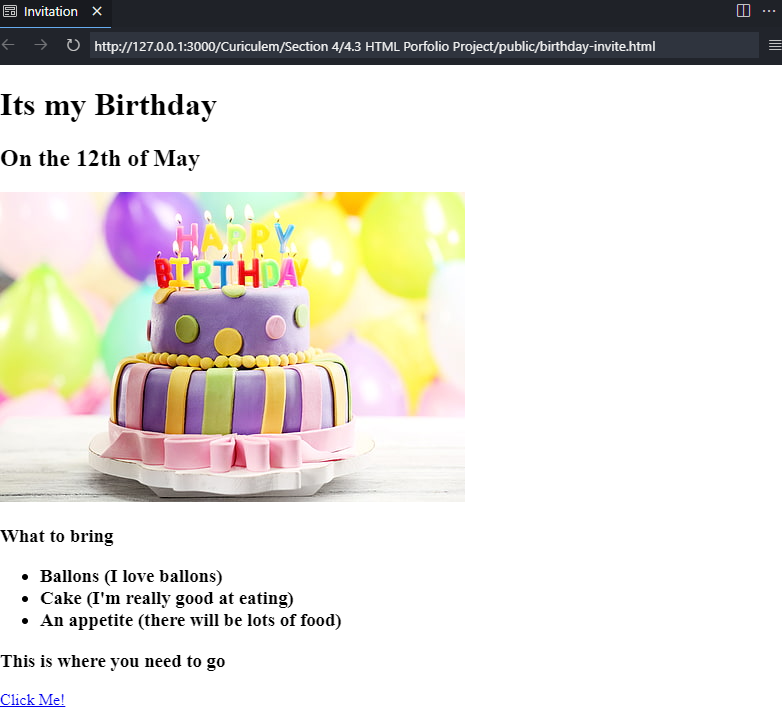
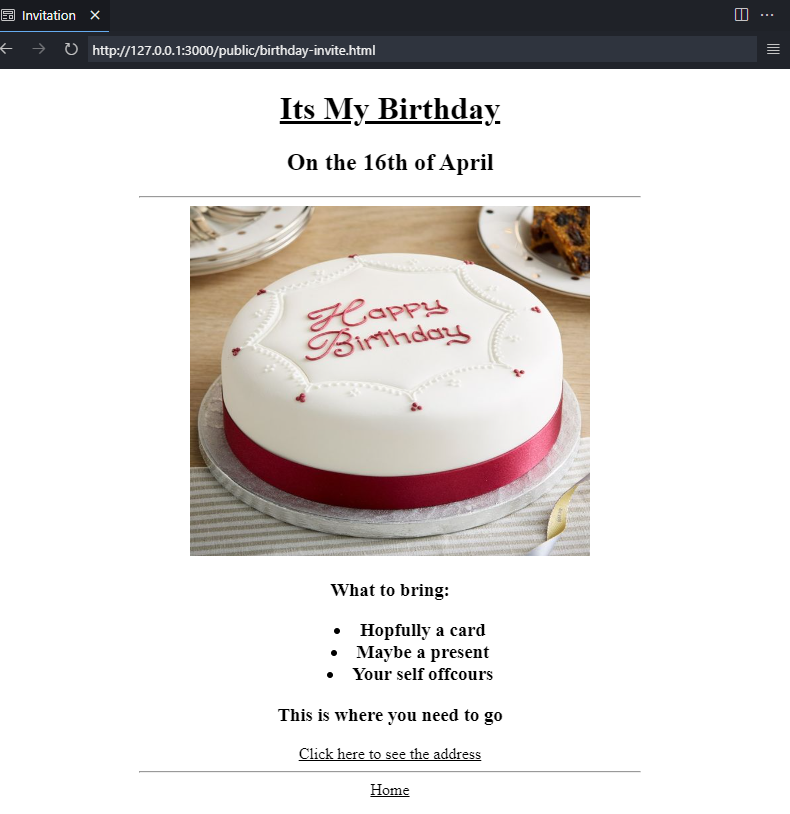
updated some content

diff --git a/public/about.html b/public/about.html
@@ -6,33 +6,141 @@
   <title>About Me</title>
 </head>
 <body>
-    <h1 id="title-line">About Me</h1>
-    <p>Lorem ipsum dolor sit amet, consectetur adipiscing elit. Pellentesque sem tellus, sagittis non odio nec, interdum
-      elementum lacus. Ut ac justo eget risus sollicitudin fringilla sed ut leo. Ut condimentum elit nec fermentum lobortis.
-      Quisque tincidunt quam nec tincidunt ullamcorper. Integer vitae pretium justo. In placerat volutpat pellentesque.
-      Etiam
-      gravida quam vitae odio pulvinar imperdiet. Vivamus venenatis gravida purus sit amet aliquet. Ut in nibh sed quam
-      laoreet lacinia. Cras cursus ut dui vitae posuere. Vivamus volutpat urna vitae odio fringilla placerat. Nulla vel
-      rhoncus sapien. Phasellus at interdum enim.</p>
+  <div class="content-super-wraper">
+    <h1>About Me</h1>
+    <h2>Education:</h2>
+    <p class="content-detail-text">
+      I attended Charles Dickens Secondary school where 
+      I studied at GCSE Level in the subjects bellow.
+    </p>
+  
+    <table class="content-education-table">
+      <tr id="content-education-table-row-one">
+        <td class="content-education-table-cell">
+          Subject:
+        </td>
+        <td class="content-education-table-cell">
+          English Lit
+        </td>
+        <td class="content-education-table-cell">
+          English Lang
+        </td>
+        <td class="content-education-table-cell">
+          Maths
+        </td>
+        <td class="content-education-table-cell">
+          Computer science
+        </td>
+        <td class="content-education-table-cell">
+          Sociology
+        </td>
+        <td class="content-education-table-cell">
+          Geography
+        </td>
+        <td class="content-education-table-cell">
+          Physics
+        </td>
+        <td class="content-education-table-cell">
+          Biology
+        </td>
+        <td class="content-education-table-cell">
+          Chemistry
+        </td>
+      </tr>
+      <tr>
+        <td class="content-education-table-cell">Grade's:</td>
+        <td class="content-education-table-cell">Grade 4</td>
+        <td class="content-education-table-cell">Grade 5</td>
+        <td class="content-education-table-cell">Grade 4</td>
+        <td class="content-education-table-cell">Grade 5</td>
+        <td class="content-education-table-cell">Grade 5</td>
+        <td class="content-education-table-cell">Grade 4</td>
+        <td class="content-education-table-cell">Grade 5</td>
+        <td class="content-education-table-cell">Grade 5</td>
+        <td class="content-education-table-cell">Grade 5</td>
+      </tr>
+    </table>
+    <p class="content-detail-text">
+      After completing my secondary school education I enrold at Broadstairs College
+      where I studied computing at Level 3 BTEC level. This is where i trully found
+      my passion for programming and computers in general.
+    </p>
+    <table class="content-education-table">
+      <tr>
+        <td class="content-education-table-cell">
+          Subject:
+        </td>
+        <td class="content-education-table-cell">
+          Computing (Level 3 BTEC)
+        </td>
+      </tr>
+      <tr>
+        <td class="content-education-table-cell">
+          Grade:
+        </td>
+        <td class="content-education-table-cell">
+          Triple Grade DDM
+        </td>
+      </tr>
+    </table>
 
-    <p>Curabitur elementum sagittis mollis. In porta nec quam ut semper. Nulla volutpat neque quis lacus mattis eleifend.
-      Phasellus et congue odio. Mauris tristique, nisl quis porttitor porttitor, tortor ante mattis ex, at dictum tortor
-      dolor
-      ut sem. Nullam nec libero non ex porta vulputate a eu sapien. In nec bibendum mauris. Fusce iaculis lectus vel magna
-      laoreet gravida.</p>
+    <h2>Programming Career</h2>
+    <p class="content-detail-text">
+      I started programming in secondary school computing classes in the language Python
+      at first I thought it was cool but I wasn't a massive fan of programming probably
+      because I didn't work on any real programs and spent most the time learning how
+      computers worked. I also learned some HTML and CSS but didnt pay much attention
+      as I didnt think it was very intresting at the time. It wasn't till I got to
+      College that I found my love for programming and started to see a career as a programmer.
+      In College I started to trully foucus on learning to program started to get good at
+      Python. At this time I still wasnt intersted in Web Development as I wasn't good at
+      HTML, hardly touched CSS and thought Javascript was a confusing Programming language.
+      I completed my National Extended Diploma in Computing and continude coding in Python
+      I also used some Java in college which I stopped persuing for lack of motivation.
+      After realising I was only really proficent in Python I began to investigate Career paths.
+      still havent decided what job i would like to specalise in but I did decided to learn Web
+      Development so i had a set of skills to land my first job in the Tech Enviroment.
+    </p>
 
-    <p>Donec euismod vestibulum arcu, a blandit metus mattis ultrices. Integer quis hendrerit justo. Maecenas sed tempor mi.
-      Fusce egestas urna leo. Mauris viverra sem sed libero egestas, volutpat aliquet magna porta. Quisque id diam sed ipsum
-      interdum sollicitudin id quis augue. Donec congue nisl nec massa ornare imperdiet quis quis odio. Etiam ut volutpat
-      nisl. Vestibulum hendrerit justo nibh, eget consequat magna fermentum finibus. Pellentesque et urna fringilla, rutrum
-      neque in, varius leo. Vestibulum efficitur id massa eget pellentesque.</p>
+    <h2>The Future</h2>
+    <p class="content-detail-text">
+      As you can see I still haven't settled on the career specifics that I would like
+      to specalise In yet but I am learning Web Development in an aim to fall in love with
+      it or rule it out as an option either way I am exited to see how far my knowledge
+      can grow and what I can atchive.
+    </p>
+
+  </div>
 
   <style>
-    table{
+    h1{
+      text-decoration: underline;
+    }
+    .content-super-wraper{
+      text-align: center;
+      margin-left: 60px;
+      margin-right: 60px;
+    }
+    .content-education-table{
+      margin-left: auto;
+      margin-right: auto;
+      border: 5px solid #cee6f0;
+    }
+    .content-education-table-cell{
+      border: 5px solid white;
+      border-collapse: collapse;
+      background-color: #cee6f0;
+      height: 20px;
+    }
+    .content-detail-text{
+      margin-left: 150px;
+      margin-right: 150px;
+    }
+    .footer-table{
       margin-left: auto;
       margin-right: auto;
     }
-    td{
+    #footer-home{
       padding-left: 10px;
     }
     #title-line{
@@ -43,11 +151,11 @@
     }
   </style>
 
-  <hr />
-  <table>
+  <hr width="600"/>
+  <table class="footer-table">
     <tr>
-      <td><a href="./contact.html">Click here to contact me</a></td>
-      <td><a href="../index.html">Click here to go home</a></td>
+      <td id="footer-contact"><a href="./contact.html">Click here to contact me</a></td>
+      <td id="footer-home"><a href="../index.html">Click here to go home</a></td>
     </tr>
   </table>
 </body>

diff --git a/public/birthday-invite.html b/public/birthday-invite.html
@@ -7,22 +7,39 @@
 </head>
 <body>
     <div class="content-wrapper">
-        <h1>Its my Birthday</h1>
-        <h2>On the 14th of May</h2>
+        <h1>Its My Birthday</h1>
+        <h2>On the 16th of April</h2>
         <hr width="500"/>
 
         <a href="">
-            <img src="https://raw.githubusercontent.com/appbrewery/webdev/main/birthday-cake3.4.jpeg" 
-            alt="Birthday cake - Image">
+            <img src="../assets/images/birthday-cake.jpg" 
+            alt="Birthday cake - Image" height="350" width="350">
         </a>
 
-        <h3>What to bring:
+        
         <div class="list-wrapper">
-            <ul>
-                <li>Hopfully a card</li>
-                <li>Maybe a present</li>
-                <li>Your self offcours</li>
-            </ul>
+            
+            <table class="content-table">
+                <tr>
+                    <td id="table-header">What to bring:</td>
+                </tr>
+                <tr>
+                    <td>
+                        Hopfully a card
+                    </td>
+                </tr>
+                <tr>
+                    <td>
+                        Maybe a present
+                    </td>
+                </tr>
+                <tr>
+                    <td>
+                        Your self offcours
+                    </td>
+                </tr>
+            </table>
+
         </div>            
         </h3>
 
@@ -38,12 +55,18 @@
         h1{
             text-decoration: underline;
         }
+        #table-header{
+            text-align: left;
+            font-size: large;
+            font-weight: bolder;
+        }
         .content-wrapper{
             text-align: center;
         }
-        .list-wrapper{
-            list-style-position: inside;
-            
+        .content-table{
+            text-align: left;
+            margin-left: auto;
+            margin-right: auto;
         }
         a{
             color: black;

diff --git a/index.html b/index.html
@@ -4,14 +4,16 @@
     <meta charset="UTF-8">
     <meta name="viewport" content="width=device-width, initial-scale=1.0">
     <title>Bailey's Porfolio</title>
-
-    
 </head>
 <body>
     <div class="content-wrapper">
         <div class="title-wrapper">
             <H1>Bailey Ross-Wray's Porfolio</H1>
-            <p>take a look at my work bellow</p>
+            <p>
+                Take a look at my work bellow
+                <br />Please note: the site is not yet designed to scale with
+                mobile device screens
+            </p>
             <hr width="500"/>
         </div>
 
